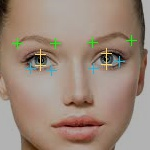
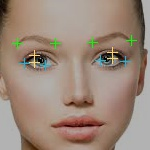
face size normalization, eyes i'm still working on inner eye tempplate

Changed region(s): [[0.1067, 0.32, 0.4, 0.5067], [0.5867, 0.2933, 0.88, 0.5067]]

diff --git a/src/emotion/Eye.java b/src/emotion/Eye.java
@@ -129,8 +129,7 @@ public final class Eye {
 
             //Adjust coordinates according to whole face
             outerCorner.y+=Eye.rightRect.y;
-            outerCorner.x+=EyeRegion.eyeRegionStartX;
-            outerCorner.x+=(EyeRegion.eyeRegionWidth/2);
+            outerCorner.x+=Eye.rightRect.x;
             outerCorner.x+=temp.width();     //We examine just right half on the right eye
             ////////////////////////////////////////////
             EyeRegion.rightOuterEyeCorner=outerCorner;
@@ -145,8 +144,8 @@ public final class Eye {
             
             Point outerCorner=new Point(maxVal.maxLoc.x+4,maxVal.maxLoc.y+9);
             //Adjust coordinates according to whole face
-            outerCorner.y+=EyeRegion.eyeRegionStartY;
-            outerCorner.x+=EyeRegion.eyeRegionStartX;
+            outerCorner.y+=Eye.leftRect.y;
+            outerCorner.x+=Eye.leftRect.x;
             ////////////////////////////////////////////
             EyeRegion.leftOuterEyeCorner=outerCorner;
         }
@@ -170,20 +169,21 @@ public final class Eye {
                 0,(int)(temp.width()*0.5),temp.height()));
         Mat result=new Mat(eyeRegion.width(),eyeRegion.height(),eyeRegion.type());
 
-        //(3,7)- coordinates of eye innerCorner in the template
+        //(4,7)- coordinates of eye innerCorner in the template
         if(rightEyeFlag)
         {
             imwrite("rightEyeForInnerTemplating.jpg",temp);
             Imgproc.matchTemplate(temp, template, result, Imgproc.TM_CCOEFF);
             Core.normalize(result,result,0,100,Core.NORM_MINMAX);
             Core.MinMaxLocResult maxVal=Core.minMaxLoc(result);
-            //(3,7)- coordinates of eye innerCorner in the template
-            Point innerCorner=new Point(maxVal.maxLoc.x+3,maxVal.maxLoc.y+7);
+            //(4,7)- coordinates of eye innerCorner in the template
+            Point innerCorner=new Point(maxVal.maxLoc.x+4,maxVal.maxLoc.y+7);
 
+            StaticFunctions.drawCross(temp, innerCorner, StaticFunctions.Features.EYE_CORNERS);
+            imwrite("rightEyeForInnerTemplating.jpg",temp);
             //Adjust coordinates according to whole face
-            innerCorner.y+=EyeRegion.eyeRegionStartY;
-            innerCorner.x+=EyeRegion.eyeRegionStartX;
-            innerCorner.x+=(EyeRegion.eyeRegionWidth/2);
+            innerCorner.y+=Eye.rightRect.y;
+            innerCorner.x+=Eye.rightRect.x;
              //We examine just right half on the right eye
             ////////////////////////////////////////////
             EyeRegion.rightInnerEyeCorner=innerCorner;
@@ -199,8 +199,8 @@ public final class Eye {
             Point innerCorner=new Point(maxVal.maxLoc.x+8,maxVal.maxLoc.y+7);
 
             //Adjust coordinates according to whole face
-            innerCorner.y+=EyeRegion.eyeRegionStartY;
-            innerCorner.x+=EyeRegion.eyeRegionStartX;
+            innerCorner.y+=Eye.leftRect.y;
+            innerCorner.x+=Eye.leftRect.x;
             innerCorner.x+=temp.width();    
             ////////////////////////////////////////////
             EyeRegion.leftInnerEyeCorner=innerCorner;

diff --git a/src/emotion/Face.java b/src/emotion/Face.java
@@ -8,7 +8,9 @@ package emotion;
 import java.util.logging.Logger;
 import org.opencv.core.Mat;
 import org.opencv.core.MatOfRect;
+import org.opencv.core.Size;
 import static org.opencv.imgcodecs.Imgcodecs.*;
+import org.opencv.imgproc.Imgproc;
 import org.opencv.objdetect.CascadeClassifier;
 
 /**
@@ -59,7 +61,8 @@ public class Face {
             return;
         }
         this.face=new Mat(head,faceDetections.toArray()[0]);
-        
+        //All templates for images 150x150px
+        Imgproc.resize(this.face,this.face,new Size(150,150));
         
         //detectEyeRegions(this.face);
         EyeRegion eyeRegion=new EyeRegion(face);
